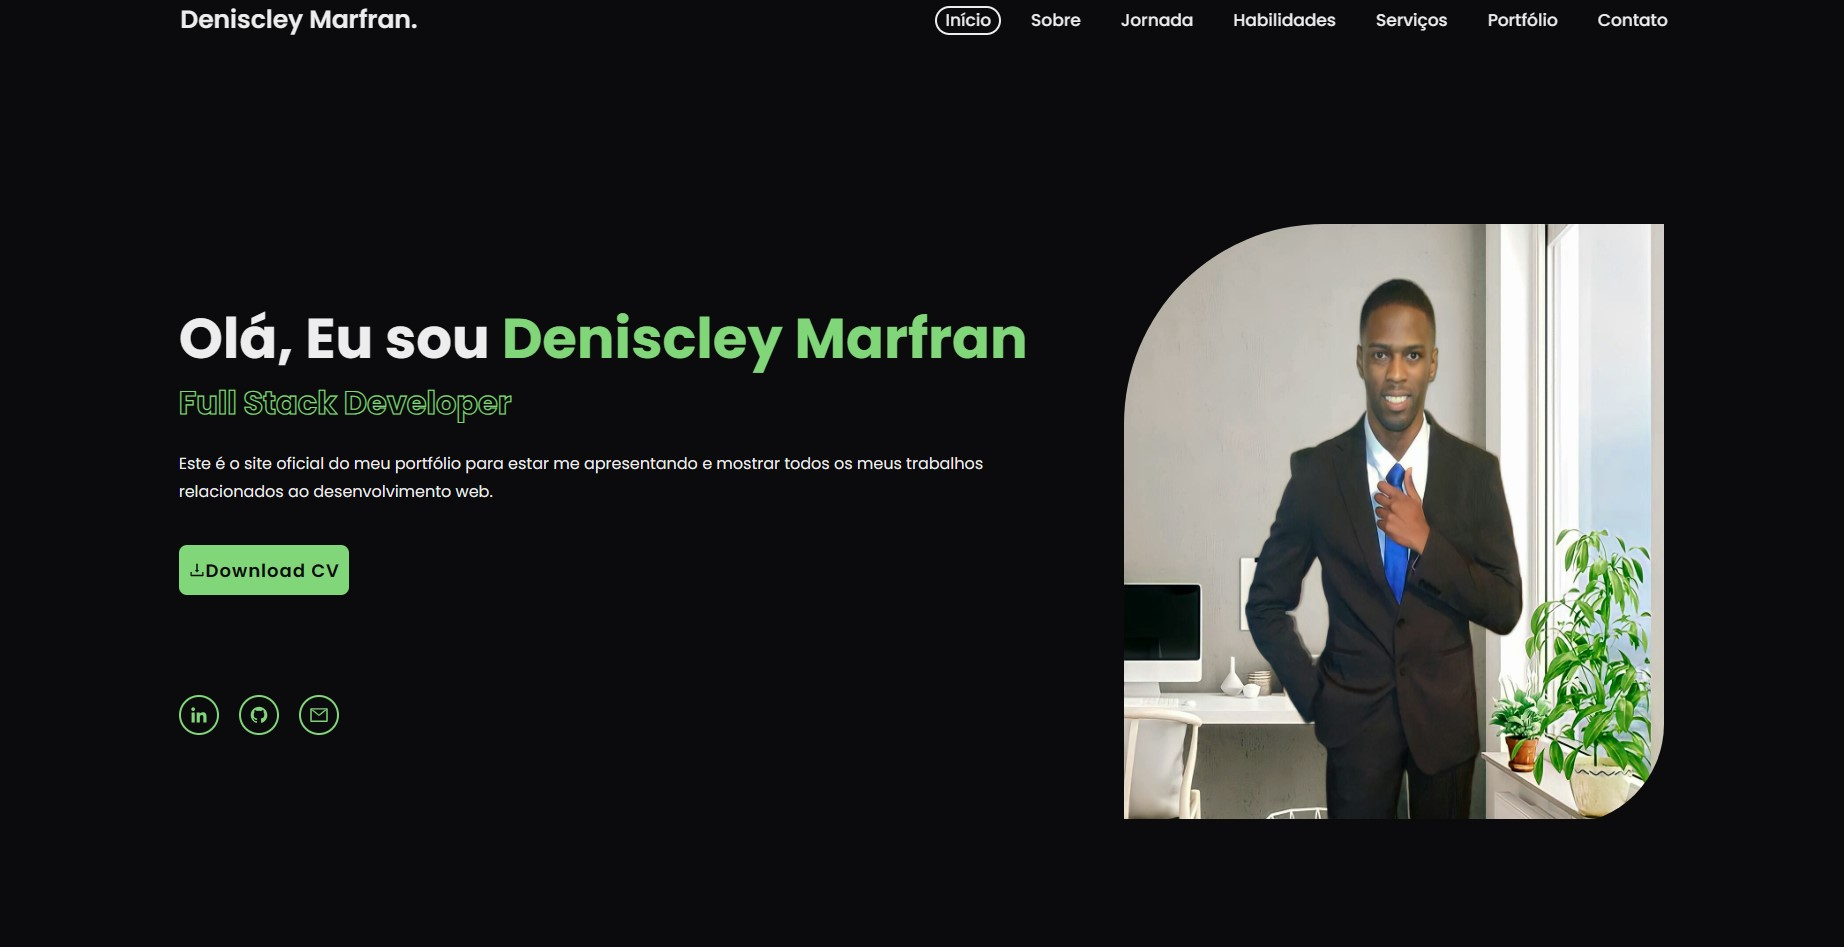
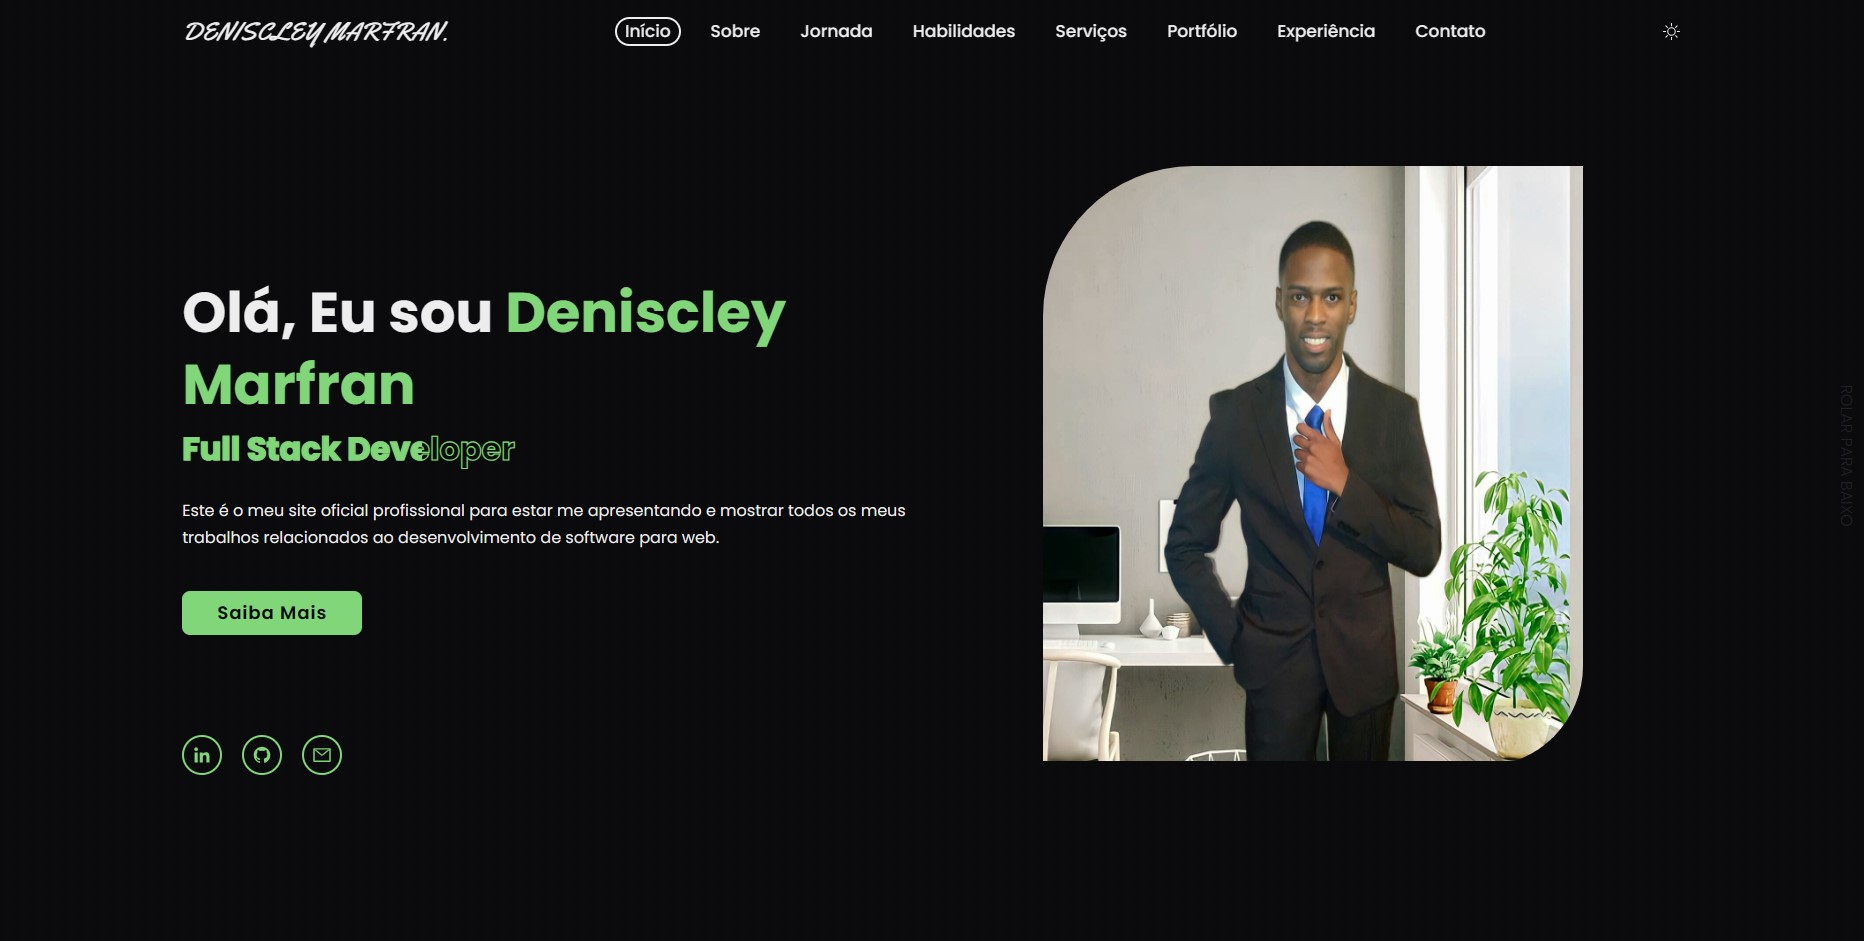
refactor: Dark-mode and image adjustments.

diff --git a/src/styles/globals.css b/src/styles/globals.css
@@ -24,6 +24,14 @@
   --transition: all 500ms ease;
 }
 
+[data-theme="dark"] {
+  --primary-hue: #0b0b0c;
+  --primary-color: var(--primary-hue);
+  --second-color: #202026ff;
+  --text-color: #ededed;
+  --main-color: #81d679;
+}
+
 [data-theme="light"] {
   --primary-hue: #f9f8f6ff;
   --primary-color: var(--primary-hue);

diff --git a/src/components/layout/navbar/navbar.tsx b/src/components/layout/navbar/navbar.tsx
@@ -39,9 +39,9 @@ export default function Navbar() {
           })}
         </ul>
 
-        {/* <div className="light-mode__color-icon">
+        <div className="light-mode__color-icon">
           <LightMode />
-        </div> */}
+        </div>
 
         <button
           className="nav__toggle-btn"

diff --git a/src/components/template/companies/clients-template.css b/src/components/template/companies/clients-template.css
@@ -34,6 +34,10 @@
   color: var(--text-color);
 }
 
+.clients__client h5:hover {
+  color: var(--main-color);
+}
+
 .swiper-pagination-clickable .swiper-pagination-bullet {
   background: var(--main-color);
 }

diff --git a/src/components/template/contact/contact-template.css b/src/components/template/contact/contact-template.css
@@ -73,7 +73,7 @@
 
 .contact__option a {
   font-size: 1.4rem;
-  color: var(--text-color);
+  color: var(--main-color);
   display: inline-block;
   margin-top: 0.8rem;
 }

diff --git a/src/components/template/main-home/home-template.css b/src/components/template/main-home/home-template.css
@@ -17,6 +17,7 @@
 .home__image {
   border-radius: 15rem 0 10rem 0;
   overflow: hidden;
+  margin-top: 2rem;
 }
 
 .home__image img {
